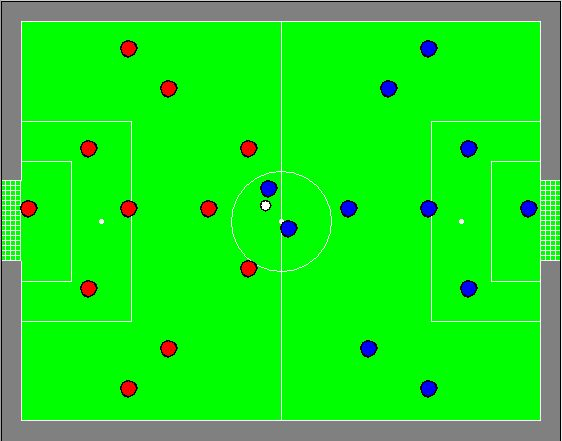
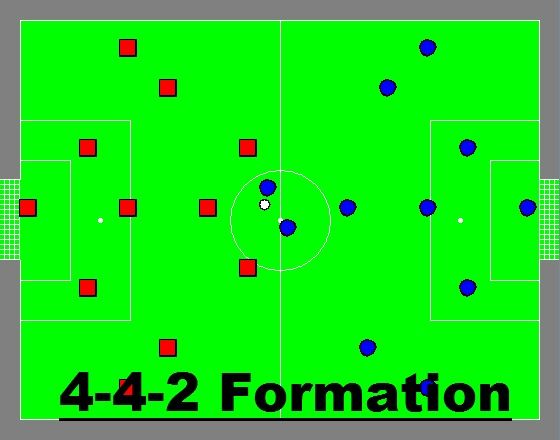
Remade formation images with text labels and changed red team to squares

diff --git a/src/finalGame/Game.java b/src/finalGame/Game.java
@@ -28,8 +28,9 @@ import java.util.LinkedList;
 import java.util.Random;
 import java.util.Scanner;
 
-
 import javax.swing.JButton;
+import javax.swing.JTextArea;
+import javax.swing.JTextPane;
 import javax.swing.Timer;
 import javax.swing.JComboBox;
 import javax.swing.JDialog;
@@ -81,7 +82,7 @@ public class Game extends JFrame {
 		board.setPlayerList(players);
 		board.setBall(ball);
 		
-		setSize(1135,745);
+		setSize(1135,625);
 		setDefaultCloseOperation(JFrame.EXIT_ON_CLOSE);
 		
 		JMenuBar menuBar = new JMenuBar();
@@ -113,7 +114,7 @@ public class Game extends JFrame {
 		
 		setVisible(true);
 		
-		t = new Timer(250, new ActionListener() {
+		t = new Timer(50, new ActionListener() {
 			public void actionPerformed(ActionEvent e) {
 
 				playGame = true;
@@ -209,13 +210,9 @@ public class Game extends JFrame {
 		for (Player p : players) {
 			if (p.getColorName().equalsIgnoreCase("blue")) {
 				JPanel playerPanel = new JPanel();
-				playerPanel.setBorder(new TitledBorder (new EtchedBorder(), p.getName()));
-				int tempStats[] = p.getStats();
-				String bh = Integer.toString(tempStats[0]);
-				String str = Integer.toString(tempStats[1]);
-				JTextField people = new JTextField("Ball handling: " + bh + " Strength: " + str);
-				people.setEditable(false);
-				playerPanel.add(people);
+				JTextArea pText = new JTextArea(p.getName());
+				pText.setEditable(false);
+				playerPanel.add(pText);
 				statsDisplayPanel.add(playerPanel);
 			}
 		}
@@ -236,13 +233,9 @@ public class Game extends JFrame {
 		for (Player p : players) {
 			if (p.getColorName().equalsIgnoreCase("red")) {
 				JPanel playerPanel = new JPanel();
-				playerPanel.setBorder(new TitledBorder (new EtchedBorder(), p.getName()));
-				int tempStats[] = p.getStats();
-				String bh = Integer.toString(tempStats[0]);
-				String str = Integer.toString(tempStats[1]);
-				JTextField people = new JTextField("Ball handling: " + bh + " Strength: " + str);
-				people.setEditable(false);
-				playerPanel.add(people);
+				JTextArea pText = new JTextArea(p.getName());
+				pText.setEditable(false);
+				playerPanel.add(pText);
 				statsDisplayPanel.add(playerPanel);
 			}
 		}
@@ -397,44 +390,6 @@ public class Game extends JFrame {
 		}
 		
 		running = false;		
-	}
-	
-
-	
-	public void waiting() {
-		int tempVar = 1;
-		running = false;
-		while(!running){
-			
-			Timer timed = new Timer(1000, new TimerListener());
-			timed.start();
-			
-//			try {
-//			    Thread.sleep(2500);
-//			} catch(InterruptedException ex) {
-//			    Thread.currentThread().interrupt();
-//			}
-			
-			board.repaint();
-			setupTopPanel();
-			repaint();
-			
-//			tempVar--;
-//			
-//			if(tempVar == 0) {
-//				running = true;
-//				break;
-//			}
-			
-		}
-		
-		playGame = true;
-	}
-
-	private class TimerListener implements ActionListener {
-		public void actionPerformed(ActionEvent e) {
-			running = true;
-		}
 	}
 	
 	public int move(Team tempTeam, int currentPlayer) {

diff --git a/src/finalGame/Board.java b/src/finalGame/Board.java
@@ -380,13 +380,22 @@ public class Board extends JPanel {
 			int tempCol = getCol(tempPlayer.getLocation());
 			Graphics2D g2 = (Graphics2D) g;
 			g2.setStroke(new BasicStroke(3));
-			g2.setColor(Color.BLACK);
-			g2.drawOval(tempCol*20, tempRow*20, 15, 15);
 			
-			g.setColor(tempPlayer.getTeam());
-			g.fillOval(tempCol*20, tempRow*20, 15, 15);
+			if (tempPlayer.getColorName().equalsIgnoreCase("red")) {				
+				g2.setColor(Color.BLACK);
+				g2.drawRect(tempCol*20, tempRow*20, 15, 15);
+				
+				g.setColor(tempPlayer.getTeam());
+				g.fillRect(tempCol*20, tempRow*20, 15, 15);
+			} else if (tempPlayer.getColorName().equalsIgnoreCase("blue")) {
+				g2.setColor(Color.BLACK);
+				g2.drawOval(tempCol*20, tempRow*20, 15, 15);
+				
+				g.setColor(tempPlayer.getTeam());
+				g.fillOval(tempCol*20, tempRow*20, 15, 15);
+			}
 			
-//			g.setColor(Color.BLACK);
+//			g.setColor(Color.WHITE);
 //			g.drawString(Integer.toString(tempPlayer.getJerseyNumber()), tempCol*20, tempRow*21);
 		}
 	}
@@ -402,4 +411,5 @@ public class Board extends JPanel {
 		g.setColor(Color.WHITE);
 		g.fillOval(tempCol*20, tempRow*20, 9, 9);
 	}
+	
 }

diff --git a/src/finalGame/FormationsWindow.java b/src/finalGame/FormationsWindow.java
@@ -26,7 +26,7 @@ public class FormationsWindow extends JDialog{
 		s = currentRelativePath.toAbsolutePath().toString();
 
 		setTitle("Formation Chooser");
-		setSize(600, 450);
+		setSize(600, 950);
 		setLayout(new GridLayout(0, 1));
 		iconButtons();
 		
